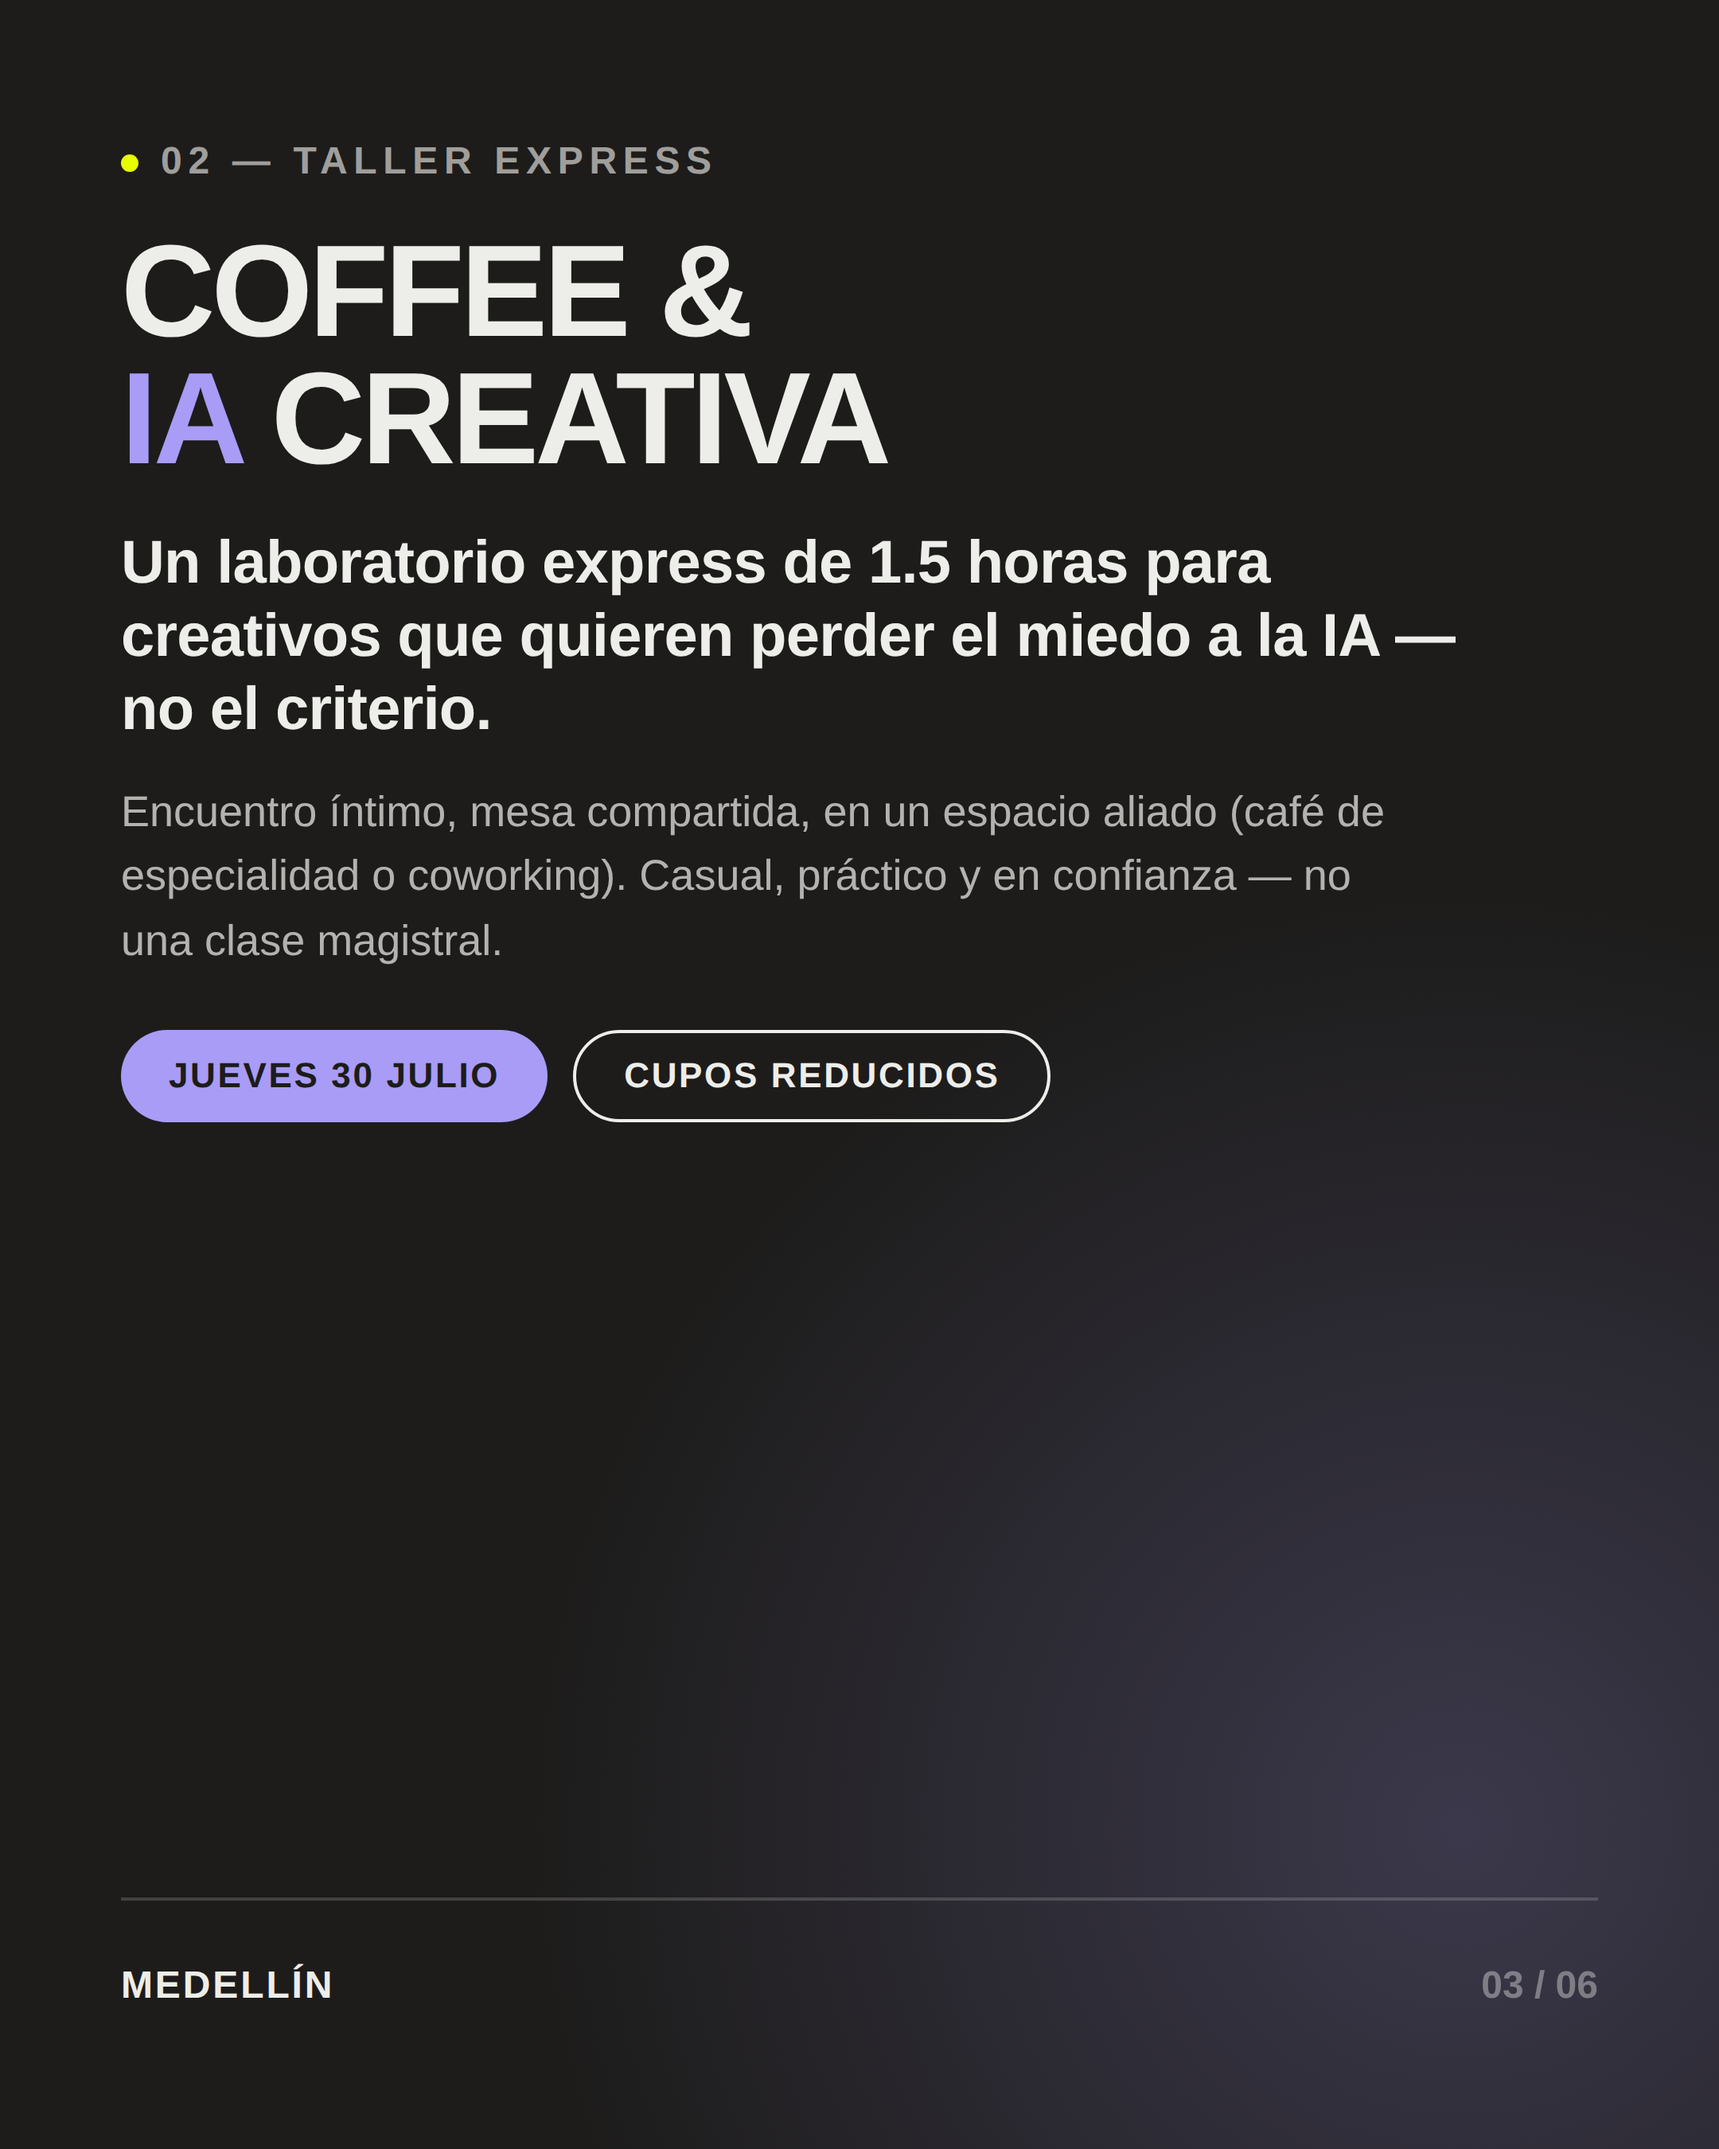
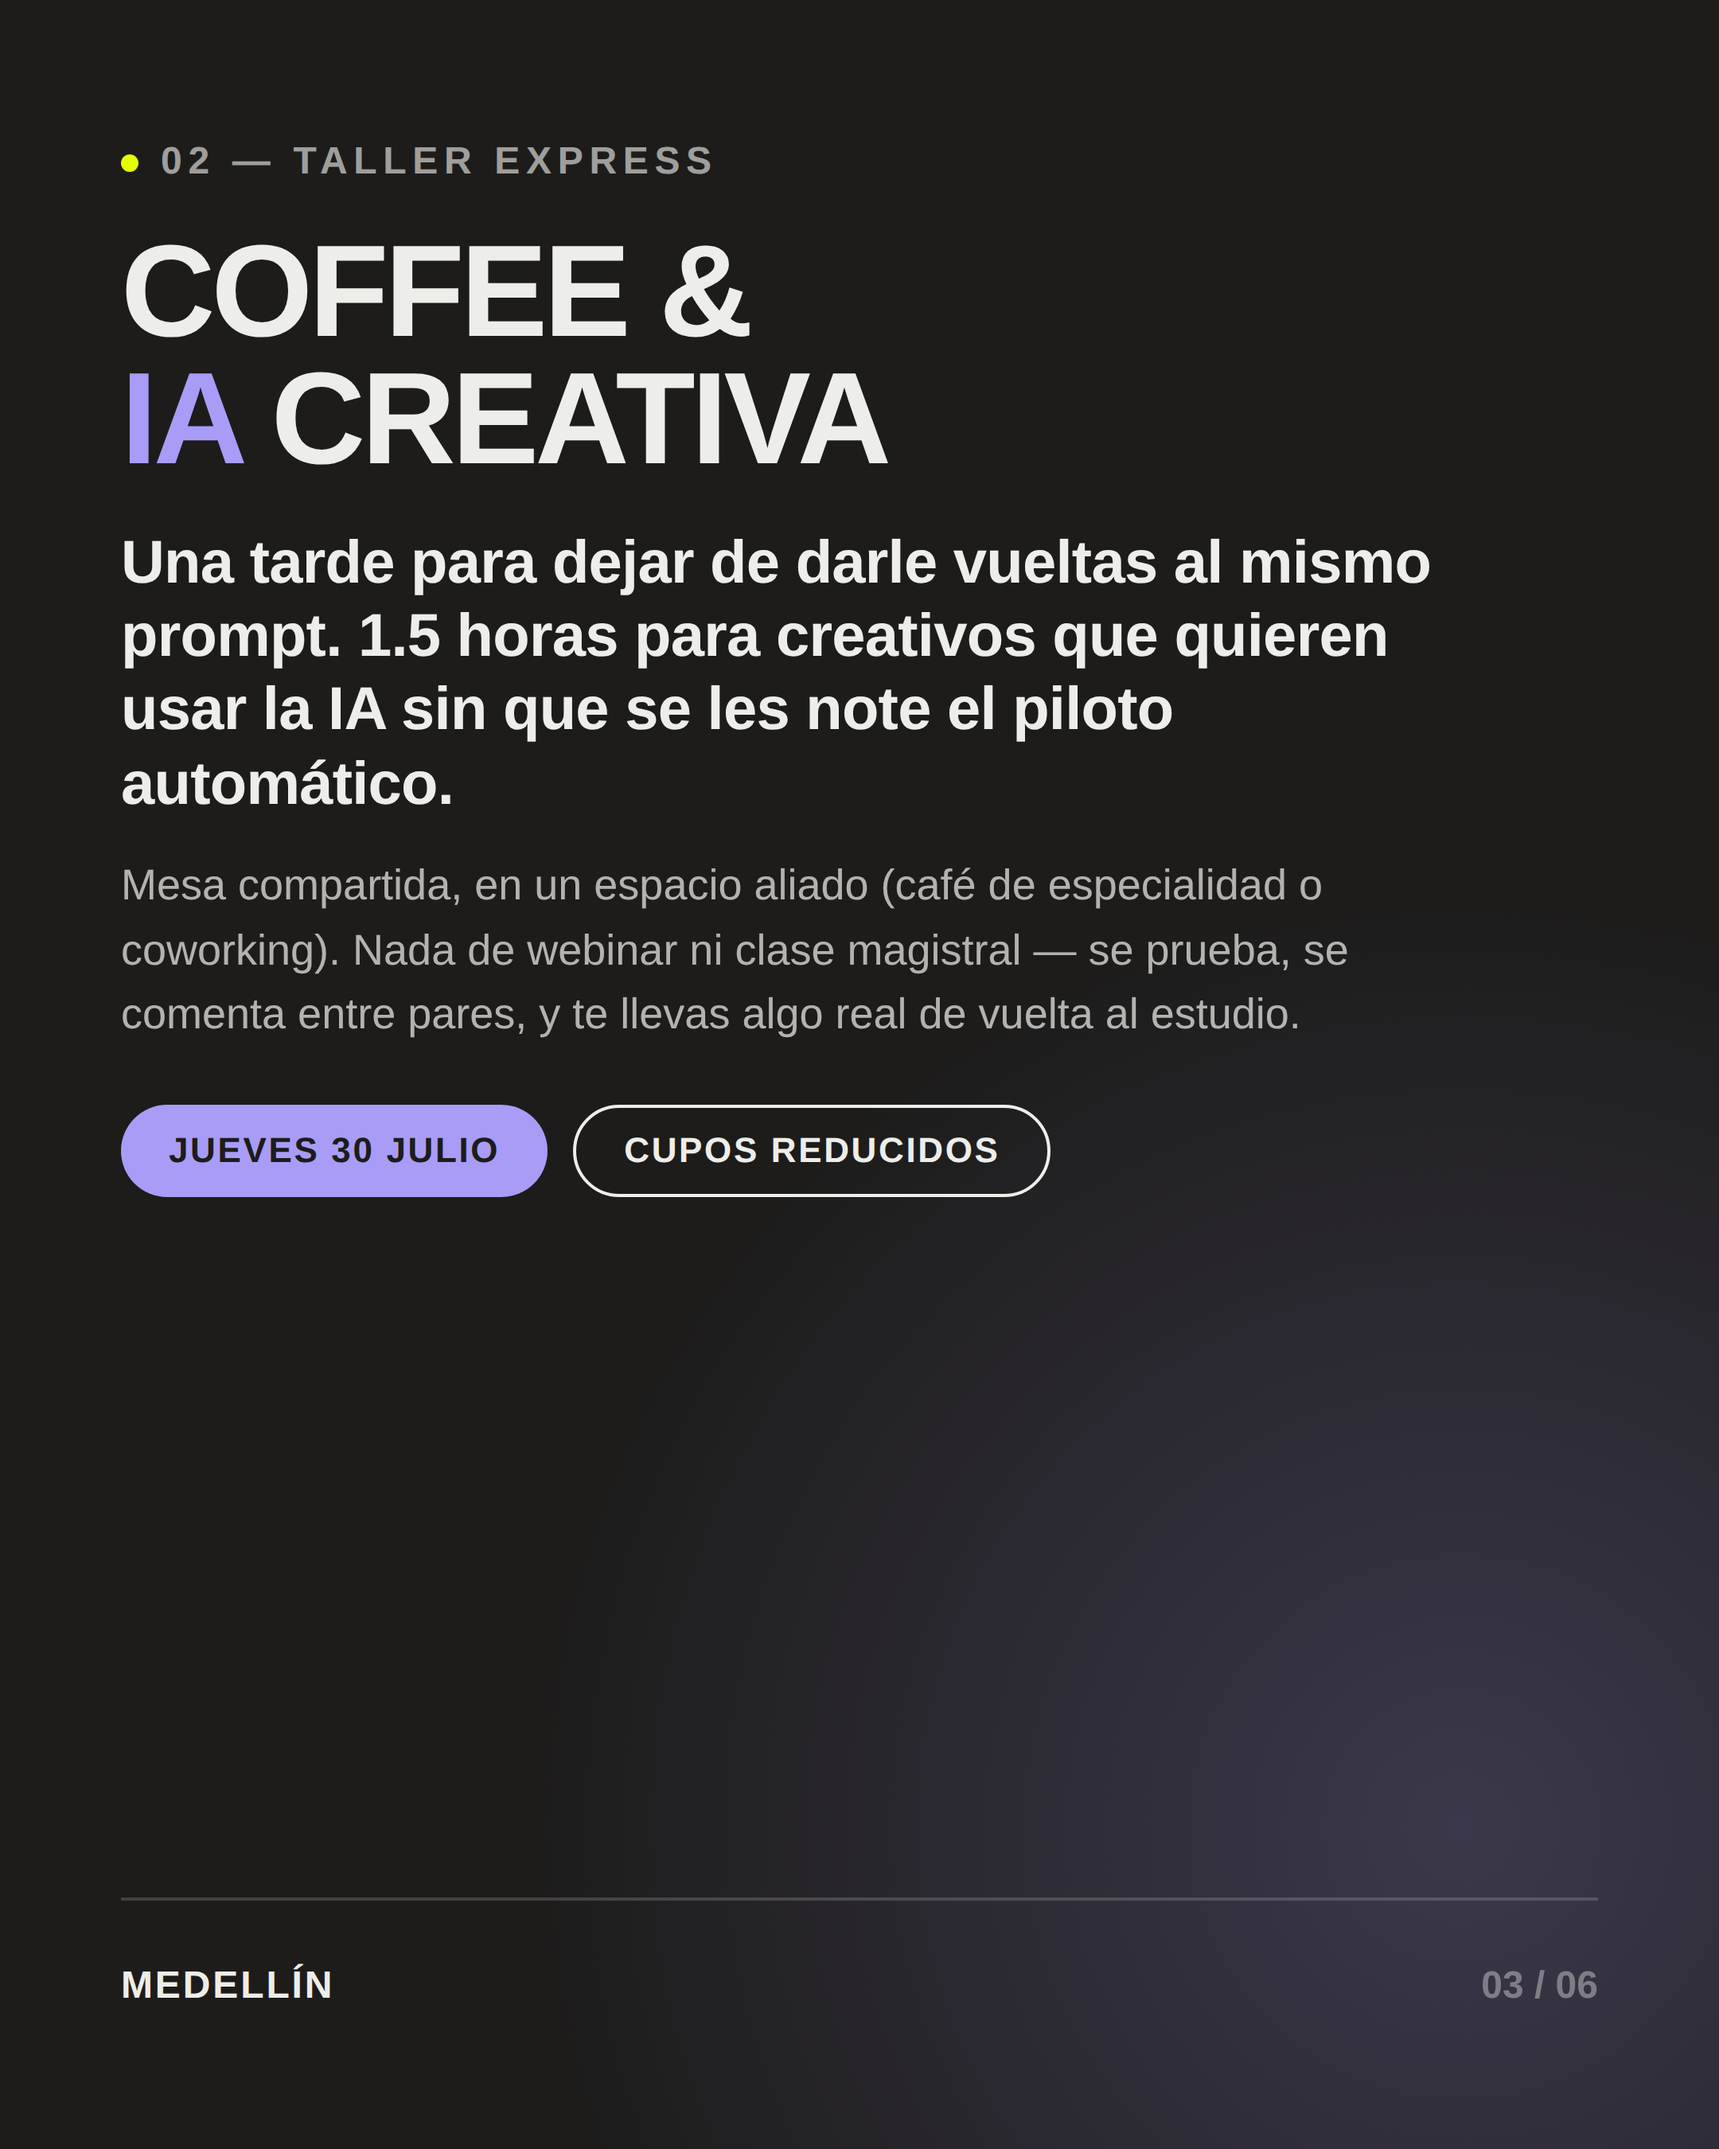
Rewrite carousel copy with a storytelling arc
Thread a single idea ("piloto automático" vs. criterio propio) through
all 6 slides and the caption — cover opens the tension, CTA closes the
loop — plus sharper, more concrete copy on each offer.

Changed region(s): [[0.062, 0.2489, 0.8375, 0.56]]

diff --git a/Instagram/events-julio-2026/carousel.html b/Instagram/events-julio-2026/carousel.html
@@ -161,8 +161,8 @@ h2.big em{font-style:normal;color:var(--lilac)}
   <div class="glow-a"></div><div class="glow-b"></div>
   <div class="pad">
     <span class="eyebrow"><span class="dot"></span>Medellín · Presencial</span>
-    <h1 class="mega">3 días<br>para pensar<br>tu marca<em>*</em></h1>
-    <p class="lede">Asesorías 1:1, un taller de IA para creativos y una charla que le declara la guerra al contenido genérico.</p>
+    <h1 class="mega">Basta de<br>piloto<br>automático<em>*</em></h1>
+    <p class="lede">30 y 31 de julio, Medellín. Dos días para pensar de nuevo — no para publicar más rápido.</p>
 
     <div class="chips-row">
       <span class="pill">Julio 30 &amp; 31</span>
@@ -184,13 +184,13 @@ h2.big em{font-style:normal;color:var(--lilac)}
 <section class="slide light" id="slide-2">
   <div class="pad">
     <span class="eyebrow"><span class="dot"></span>01 — Asesorías Express 1:1</span>
-    <h2 class="big">45 min.<br>Tú, yo<br>y un <em>café</em>.</h2>
-    <p class="body-txt">Sesiones individuales, cara a cara, en un café lindo de Medellín. Sin Zoom, sin plantillas genéricas — solo tu marca puesta sobre la mesa.</p>
+    <h2 class="big">45 min.<br>Sin filtros,<br>sin <em>Zoom</em>.</h2>
+    <p class="body-txt">Cara a cara, en un café lindo de Medellín. Nada de plantillas genéricas ni consejos de manual — solo tu marca, puesta sobre la mesa, y una hora para verla distinto.</p>
 
     <div class="offer-list">
-      <div class="offer"><span class="dot-mark d1"></span><div><h3>Auditoría de Marca</h3><p>Qué está funcionando, qué está saboteando tu marca y por dónde empezar.</p></div></div>
-      <div class="offer"><span class="dot-mark d2"></span><div><h3>Estrategia de IA &amp; No-Code</h3><p>Un plan realista para automatizar sin perder tu voz ni tu criterio.</p></div></div>
-      <div class="offer"><span class="dot-mark d3"></span><div><h3>Dirección Creativa</h3><p>Ojo externo y experto para tu próxima campaña, colección o lanzamiento.</p></div></div>
+      <div class="offer"><span class="dot-mark d1"></span><div><h3>Auditoría de Marca</h3><p>Lo que nadie te dice: qué está funcionando, qué te está saboteando y por dónde empezar de verdad.</p></div></div>
+      <div class="offer"><span class="dot-mark d2"></span><div><h3>Estrategia de IA &amp; No-Code</h3><p>Automatizar sin volverte una marca más que suena igual que todas las demás.</p></div></div>
+      <div class="offer"><span class="dot-mark d3"></span><div><h3>Dirección Creativa</h3><p>Un ojo externo, sin filtro, para tu próxima campaña, colección o lanzamiento.</p></div></div>
     </div>
 
     <div class="footline">
@@ -207,8 +207,8 @@ h2.big em{font-style:normal;color:var(--lilac)}
   <div class="pad">
     <span class="eyebrow"><span class="dot"></span>02 — Taller Express</span>
     <h2 class="big">Coffee &amp;<br><em>IA</em> creativa</h2>
-    <p class="lede">Un laboratorio express de 1.5 horas para creativos que quieren perder el miedo a la IA — no el criterio.</p>
-    <p class="body-txt">Encuentro íntimo, mesa compartida, en un espacio aliado (café de especialidad o coworking). Casual, práctico y en confianza — no una clase magistral.</p>
+    <p class="lede">Una tarde para dejar de darle vueltas al mismo prompt. 1.5 horas para creativos que quieren usar la IA sin que se les note el piloto automático.</p>
+    <p class="body-txt">Mesa compartida, en un espacio aliado (café de especialidad o coworking). Nada de webinar ni clase magistral — se prueba, se comenta entre pares, y te llevas algo real de vuelta al estudio.</p>
 
     <div class="chips-row">
       <span class="pill alt">Jueves 30 julio</span>
@@ -227,8 +227,8 @@ h2.big em{font-style:normal;color:var(--lilac)}
   <div class="pad">
     <span class="eyebrow"><span class="dot"></span>03 — Charla</span>
     <h2 class="big">IA <em>anti-slop</em></h2>
-    <p class="lede">Cómo usar inteligencia artificial sin sumarle una gota más de contenido genérico al feed.</p>
-    <p class="body-txt">Una charla directa, sin humo, sobre criterio creativo en la era de la IA: qué la hace ver "slop", qué la hace ver con dirección — y cómo lograrlo en tu marca o proyecto.</p>
+    <p class="lede">El feed ya está lleno de contenido que nadie recuerda cinco minutos después. Esto no es sobre usar más IA — es sobre usarla con criterio propio.</p>
+    <p class="body-txt">Qué hace que un contenido se sienta genérico, qué lo salva, y cómo mantener tu voz cuando la máquina te ofrece la versión fácil primero.</p>
 
     <div class="chips-row">
       <span class="pill">Viernes 31 julio</span>
@@ -252,12 +252,12 @@ h2.big em{font-style:normal;color:var(--lilac)}
       <div class="sched-day">
         <span class="d-label">Jueves 30</span>
         <h3>Asesorías 1:1 + Coffee &amp; IA Creativa</h3>
-        <p>Sesiones express de marca / IA / dirección creativa, y el taller íntimo de 1.5h por la tarde.</p>
+        <p>Sesiones express por la mañana, y por la tarde el taller íntimo para perderle el miedo a la IA sin perder el criterio.</p>
       </div>
       <div class="sched-day">
         <span class="d-label">Viernes 31</span>
         <h3>Asesorías 1:1 + Charla IA Anti-Slop</h3>
-        <p>Últimos cupos de asesorías express, y charla abierta sobre IA con criterio creativo.</p>
+        <p>Últimos cupos de asesorías, y una charla abierta sobre cómo hacer contenido que sí se quede.</p>
       </div>
     </div>
 
@@ -273,15 +273,15 @@ h2.big em{font-style:normal;color:var(--lilac)}
   <div class="glow-a"></div><div class="glow-b"></div>
   <div class="pad">
     <span class="eyebrow"><span class="dot"></span>Cupos abiertos ahora</span>
-    <h2 class="big">Reserva<br>tu cupo<em>*</em></h2>
+    <h2 class="big">Sal del<br>piloto<br>automático<em>*</em></h2>
 
     <ul class="check-list">
-      <li><span class="ck">✓</span>Solo 3-4 asesorías 1:1 en total</li>
-      <li><span class="ck">✓</span>Taller Coffee &amp; IA — cupo súper limitado</li>
-      <li><span class="ck">✓</span>Charla anti-slop, entrada abierta</li>
+      <li><span class="ck">✓</span>Solo 3-4 asesorías 1:1 — así de en serio va lo de exclusivo</li>
+      <li><span class="ck">✓</span>Taller Coffee &amp; IA — mesa compartida, cupo mínimo</li>
+      <li><span class="ck">✓</span>Charla anti-slop — entrada abierta para todos</li>
     </ul>
 
-    <p class="contact-line">Escríbeme por DM o a <a href="mailto:lerosedays@icloud.com">lerosedays@icloud.com</a></p>
+    <p class="contact-line">Escríbeme por DM o a <a href="mailto:lerosedays@icloud.com">lerosedays@icloud.com</a> antes de que se acaben los cupos.</p>
 
     <h2 class="cta-wordmark">ROSEDAYS<span class="sub">Brand Lab · Medellín</span></h2>
   </div>

diff --git a/Instagram/events-julio-2026/caption.md b/Instagram/events-julio-2026/caption.md
@@ -2,17 +2,17 @@
 
 ## Copy para el post (caption)
 
-3 días. 3 formatos. Cupos que se acaban rápido 👀
+El feed está lleno de contenido que nadie recuerda cinco minutos después. Yo tampoco quiero sumarle uno más.
 
-Del 30 al 31 de julio abro agenda en Medellín — presencial, cara a cara, sin pantallas de por medio:
+Por eso, del 30 al 31 de julio, abro agenda en Medellín — presencial, cara a cara, sin pantallas de por medio. Tres formas distintas de salir del piloto automático:
 
-🟣 **Asesorías Express 1:1** (45 min) — Auditoría de Marca / Estrategia de IA & No-Code / Dirección Creativa. En un café lindo, solo 3-4 cupos en total. Exclusivo de verdad, no de marketing.
+🟣 **Asesorías Express 1:1** (45 min) — Auditoría de Marca / Estrategia de IA & No-Code / Dirección Creativa. En un café lindo, solo 3-4 cupos en total. Nada de plantillas ni consejos genéricos: tu marca, sobre la mesa, con alguien que te dice lo que nadie más te dice.
 
-☕ **Coffee & IA Creativa** — jueves 30, laboratorio express de 1.5h para creativos que quieren perder el miedo a la IA (no el criterio). Mesa compartida, ambiente íntimo.
+☕ **Coffee & IA Creativa** (jueves 30) — 1.5 horas, mesa compartida, para creativos que quieren perderle el miedo a la IA sin perder su voz. Un laboratorio, no una clase magistral.
 
-🎤 **Charla "IA Anti-Slop"** — viernes 31, entrada abierta. Cómo usar IA sin sumarle una gota más de contenido genérico al feed.
+🎤 **Charla "IA Anti-Slop"** (viernes 31) — Entrada abierta. Sobre cómo hacer contenido con IA que sí se quede, en vez de sumar una gota más al mar de lo genérico.
 
-Cupos limitados en los tres formatos — escríbeme por DM o a lerosedays@icloud.com para reservar tu lugar.
+Cupos limitados en los tres formatos. Escríbeme por DM o a lerosedays@icloud.com antes de que se acaben.
 
 ¿Cuál te llama más — la asesoría 1:1, el taller o la charla? Cuéntame en comentarios 👇
 
